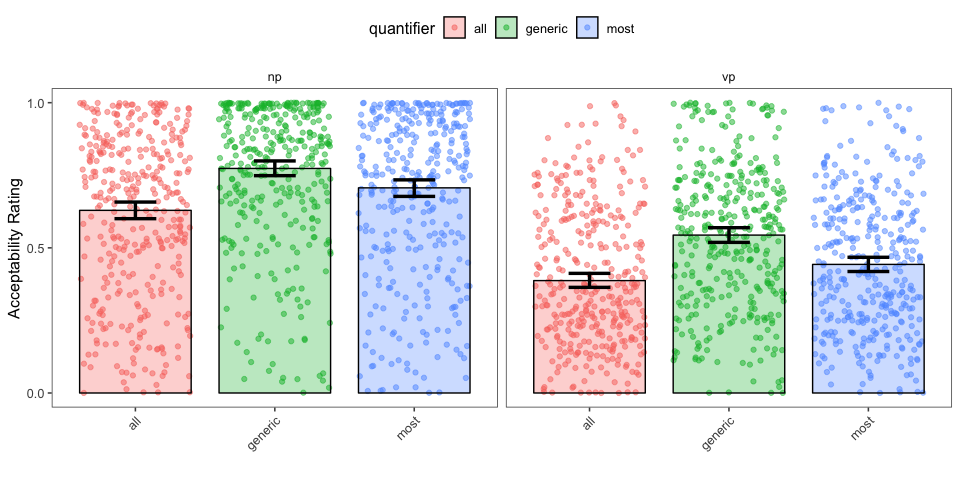
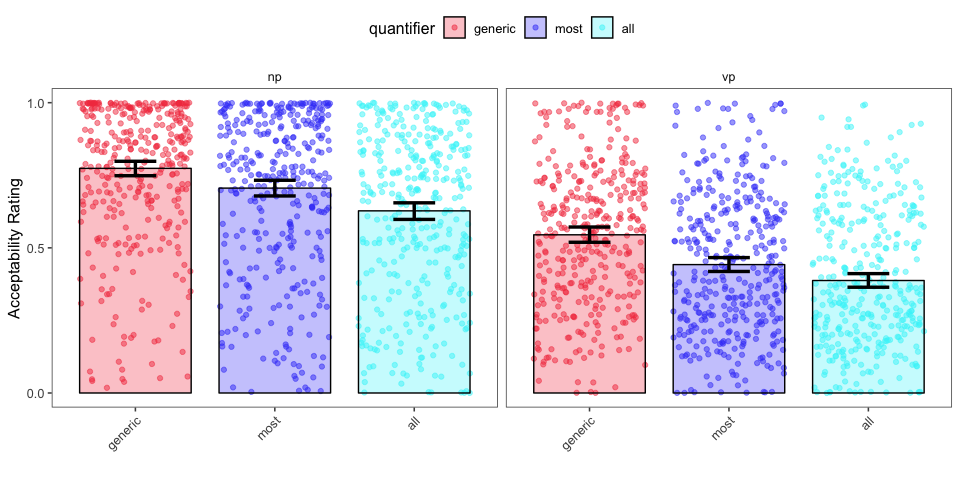
add more analysis for elephants-9
generic vp condition, change colors and plot labels

diff --git a/analysis/pilots/elephants-9-pilot.md b/analysis/pilots/elephants-9-pilot.md
@@ -288,68 +288,68 @@ Removing participants who didn't get the first two sliders and who answered less
 
 ### Number of Participants by Item and Condition
 
-| coordination | combined\_predicate                                        |  all|  generic|  most|
-|:-------------|:-----------------------------------------------------------|----:|--------:|-----:|
-| np           | are black and brown                                        |   12|       16|    11|
-| np           | are cooked in a dutch-oven and on a pan                    |   14|       11|    14|
-| np           | are made of wool and cotton                                |   11|       15|    13|
-| np           | are orange with black stripes and white with brown stripes |   15|       12|    12|
-| np           | are purple and golden                                      |   17|       11|    11|
-| np           | are purple and green                                       |   13|       12|    14|
-| np           | are white and gray                                         |   16|       13|    10|
-| np           | are young and old                                          |   10|       11|    18|
-| np           | bloom in the spring and summer                             |   13|       16|    10|
-| np           | build nests in trees and on the ground                     |   11|       16|    12|
-| np           | compete in team sports and individual sports               |   10|       13|    16|
-| np           | create paintings and sculptures                            |   13|       13|    13|
-| np           | fish in oceans and lakes                                   |   13|       17|     9|
-| np           | form in the Atlantic Ocean and Pacific Ocean               |   17|        9|    13|
-| np           | go over rivers and valleys                                 |   11|       15|    13|
-| np           | go through the sea and mountains                           |   16|       10|    13|
-| np           | grow corn and soy                                          |   19|        5|    15|
-| np           | have beautiful feathers and drab feathers                  |   17|       14|     8|
-| np           | have gas engines and electric engines                      |    9|       13|    17|
-| np           | have meat fillings and vegetable fillings                  |   13|       10|    16|
-| np           | is brown and white                                         |    9|       16|    14|
-| np           | is white and brown                                         |   13|       14|    12|
-| np           | live as pets and live in the wild                          |   11|       17|    11|
-| np           | live in Africa and Asia                                    |   12|       14|    13|
-| np           | live in fish tanks and fish bowls                          |    9|        9|    21|
-| np           | live in forests and tundras                                |   14|        8|    17|
-| np           | live in saltwater and freshwater                           |   12|       17|    10|
-| np           | live in the western hemisphere and eastern hemisphere      |   17|       13|     9|
-| np           | pray in churches and synagogues                            |    9|       19|    11|
-| np           | show movies and plays                                      |   14|       11|    14|
-| vp           | are black and brown                                        |    7|       16|    15|
-| vp           | are cooked in a dutch-oven and on a pan                    |   10|       13|    15|
-| vp           | are made of wool and cotton                                |   15|       11|    12|
-| vp           | are orange with black stripes and white with brown stripes |   13|       15|    10|
-| vp           | are purple and golden                                      |   18|       11|     9|
-| vp           | are purple and green                                       |   16|       12|    10|
-| vp           | are white and gray                                         |   12|       15|    11|
-| vp           | are young and old                                          |    9|       14|    15|
-| vp           | bloom in the spring and summer                             |   13|       13|    12|
-| vp           | build nests in trees and on the ground                     |    8|       11|    19|
-| vp           | compete in team sports and individual sports               |   13|       14|    11|
-| vp           | create paintings and sculptures                            |   13|       13|    12|
-| vp           | fish in oceans and lakes                                   |   11|       17|    10|
-| vp           | form in the Atlantic Ocean and Pacific Ocean               |   15|       13|    10|
-| vp           | go over rivers and valleys                                 |    9|       13|    16|
-| vp           | go through the sea and mountains                           |   11|       17|    10|
-| vp           | grow corn and soy                                          |    9|       13|    16|
-| vp           | have beautiful feathers and drab feathers                  |   13|       12|    13|
-| vp           | have gas engines and electric engines                      |   10|        8|    20|
-| vp           | have meat fillings and vegetable fillings                  |   12|       11|    15|
-| vp           | is brown and white                                         |   17|       15|     6|
-| vp           | is white and brown                                         |   16|       13|     9|
-| vp           | live as pets and live in the wild                          |   14|       13|    11|
-| vp           | live in Africa and Asia                                    |    9|       12|    17|
-| vp           | live in fish tanks and fish bowls                          |    9|       13|    16|
-| vp           | live in forests and tundras                                |   12|       12|    14|
-| vp           | live in saltwater and freshwater                           |   19|       11|     8|
-| vp           | live in the western hemisphere and eastern hemisphere      |   19|        7|    12|
-| vp           | pray in churches and synagogues                            |   11|       15|    12|
-| vp           | show movies and plays                                      |   17|        7|    14|
+| coordination | combined\_predicate                                        |  generic|  most|  all|
+|:-------------|:-----------------------------------------------------------|--------:|-----:|----:|
+| np           | are black and brown                                        |       16|    11|   12|
+| np           | are cooked in a dutch-oven and on a pan                    |       11|    14|   14|
+| np           | are made of wool and cotton                                |       15|    13|   11|
+| np           | are orange with black stripes and white with brown stripes |       12|    12|   15|
+| np           | are purple and golden                                      |       11|    11|   17|
+| np           | are purple and green                                       |       12|    14|   13|
+| np           | are white and gray                                         |       13|    10|   16|
+| np           | are young and old                                          |       11|    18|   10|
+| np           | bloom in the spring and summer                             |       16|    10|   13|
+| np           | build nests in trees and on the ground                     |       16|    12|   11|
+| np           | compete in team sports and individual sports               |       13|    16|   10|
+| np           | create paintings and sculptures                            |       13|    13|   13|
+| np           | fish in oceans and lakes                                   |       17|     9|   13|
+| np           | form in the Atlantic Ocean and Pacific Ocean               |        9|    13|   17|
+| np           | go over rivers and valleys                                 |       15|    13|   11|
+| np           | go through the sea and mountains                           |       10|    13|   16|
+| np           | grow corn and soy                                          |        5|    15|   19|
+| np           | have beautiful feathers and drab feathers                  |       14|     8|   17|
+| np           | have gas engines and electric engines                      |       13|    17|    9|
+| np           | have meat fillings and vegetable fillings                  |       10|    16|   13|
+| np           | is brown and white                                         |       16|    14|    9|
+| np           | is white and brown                                         |       14|    12|   13|
+| np           | live as pets and live in the wild                          |       17|    11|   11|
+| np           | live in Africa and Asia                                    |       14|    13|   12|
+| np           | live in fish tanks and fish bowls                          |        9|    21|    9|
+| np           | live in forests and tundras                                |        8|    17|   14|
+| np           | live in saltwater and freshwater                           |       17|    10|   12|
+| np           | live in the western hemisphere and eastern hemisphere      |       13|     9|   17|
+| np           | pray in churches and synagogues                            |       19|    11|    9|
+| np           | show movies and plays                                      |       11|    14|   14|
+| vp           | are black and brown                                        |       16|    15|    7|
+| vp           | are cooked in a dutch-oven and on a pan                    |       13|    15|   10|
+| vp           | are made of wool and cotton                                |       11|    12|   15|
+| vp           | are orange with black stripes and white with brown stripes |       15|    10|   13|
+| vp           | are purple and golden                                      |       11|     9|   18|
+| vp           | are purple and green                                       |       12|    10|   16|
+| vp           | are white and gray                                         |       15|    11|   12|
+| vp           | are young and old                                          |       14|    15|    9|
+| vp           | bloom in the spring and summer                             |       13|    12|   13|
+| vp           | build nests in trees and on the ground                     |       11|    19|    8|
+| vp           | compete in team sports and individual sports               |       14|    11|   13|
+| vp           | create paintings and sculptures                            |       13|    12|   13|
+| vp           | fish in oceans and lakes                                   |       17|    10|   11|
+| vp           | form in the Atlantic Ocean and Pacific Ocean               |       13|    10|   15|
+| vp           | go over rivers and valleys                                 |       13|    16|    9|
+| vp           | go through the sea and mountains                           |       17|    10|   11|
+| vp           | grow corn and soy                                          |       13|    16|    9|
+| vp           | have beautiful feathers and drab feathers                  |       12|    13|   13|
+| vp           | have gas engines and electric engines                      |        8|    20|   10|
+| vp           | have meat fillings and vegetable fillings                  |       11|    15|   12|
+| vp           | is brown and white                                         |       15|     6|   17|
+| vp           | is white and brown                                         |       13|     9|   16|
+| vp           | live as pets and live in the wild                          |       13|    11|   14|
+| vp           | live in Africa and Asia                                    |       12|    17|    9|
+| vp           | live in fish tanks and fish bowls                          |       13|    16|    9|
+| vp           | live in forests and tundras                                |       12|    14|   12|
+| vp           | live in saltwater and freshwater                           |       11|     8|   19|
+| vp           | live in the western hemisphere and eastern hemisphere      |        7|    12|   19|
+| vp           | pray in churches and synagogues                            |       15|    12|   11|
+| vp           | show movies and plays                                      |        7|    14|   17|
 
 | coordination |     n|
 |:-------------|-----:|
@@ -373,15 +373,40 @@ Histograms of Acceptability Judgements by Coordination and Quantifier (collapsed
 
 ![](elephants-9-pilot_files/figure-markdown_github/unnamed-chunk-11-1.png)
 
+Generic VP Analysis
+-------------------
+
+    ## Linear mixed model fit by REML. t-tests use Satterthwaite's method [
+    ## lmerModLmerTest]
+    ## Formula: response ~ 1 + (1 | workerid) + (1 | combined_predicate)
+    ##    Data: df.generic.vp
+    ## 
+    ## REML criterion at convergence: -112.4
+    ## 
+    ## Scaled residuals: 
+    ##     Min      1Q  Median      3Q     Max 
+    ## -3.3541 -0.5565  0.0371  0.5995  3.2332 
+    ## 
+    ## Random effects:
+    ##  Groups             Name        Variance Std.Dev.
+    ##  workerid           (Intercept) 0.024608 0.15687 
+    ##  combined_predicate (Intercept) 0.007038 0.08389 
+    ##  Residual                       0.031385 0.17716 
+    ## Number of obs: 380, groups:  workerid, 38; combined_predicate, 30
+    ## 
+    ## Fixed effects:
+    ##             Estimate Std. Error       df t value Pr(>|t|)
+    ## (Intercept)  0.04431    0.03110 52.12360   1.424     0.16
+
 By-item Analyses
 ----------------
 
 ### Number of Trials by Item and Quantifier
 
-| coordination |  all|  generic|  most|
-|:-------------|----:|--------:|-----:|
-| np           |  390|      390|   390|
-| vp           |  380|      380|   380|
+| coordination |  generic|  most|  all|
+|:-------------|--------:|-----:|----:|
+| np           |      390|   390|  390|
+| vp           |      380|   380|  380|
 
 | quantifier |    n|
 |:-----------|----:|
@@ -392,18 +417,18 @@ By-item Analyses
 Pirate Plots (by item)
 ----------------------
 
-![](elephants-9-pilot_files/figure-markdown_github/unnamed-chunk-13-1.png)
+![](elephants-9-pilot_files/figure-markdown_github/unnamed-chunk-14-1.png)
 
 ### Confidence Intervals (by item)
 
-![](elephants-9-pilot_files/figure-markdown_github/unnamed-chunk-14-1.png)
+![](elephants-9-pilot_files/figure-markdown_github/unnamed-chunk-15-1.png)
 
 ### Histograms of Acceptability Ratings by Item
 
 ### by Coordination
 
-![](elephants-9-pilot_files/figure-markdown_github/unnamed-chunk-15-1.png)
+![](elephants-9-pilot_files/figure-markdown_github/unnamed-chunk-16-1.png)
 
 ### by Quantifier
 
-![](elephants-9-pilot_files/figure-markdown_github/unnamed-chunk-16-1.png)
+![](elephants-9-pilot_files/figure-markdown_github/unnamed-chunk-17-1.png)
